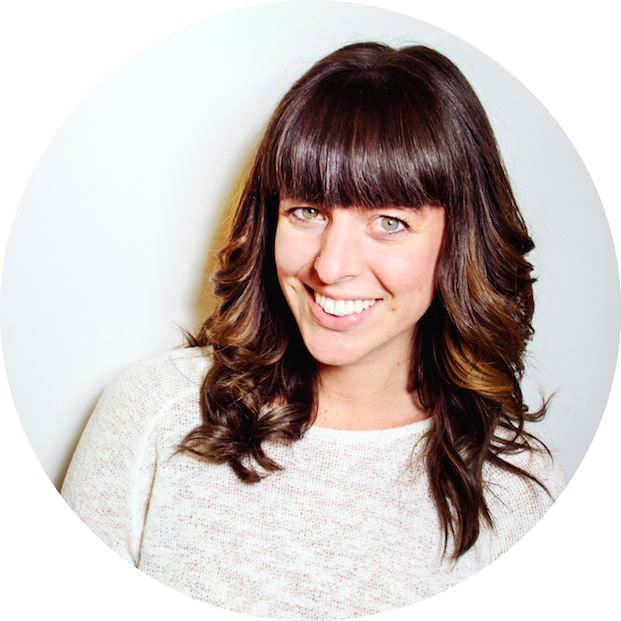
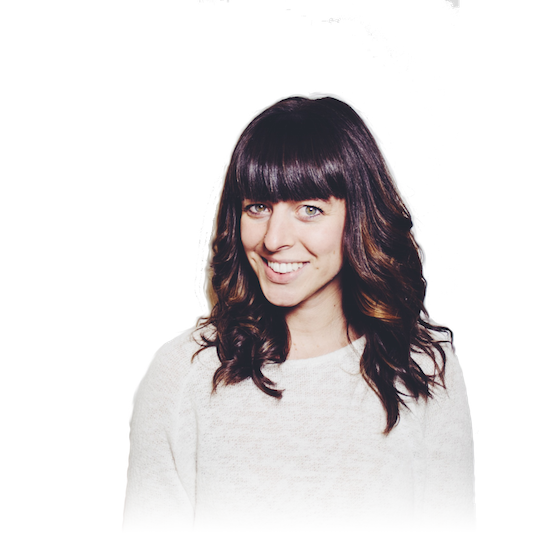
adding new profile photo and styling

diff --git a/css/style.css b/css/style.css
@@ -211,7 +211,7 @@ ul.mainmenu li a {
 /*styling for about emma section*/
 
 .about {
-	padding: 5%;
+	padding: 2%;
 	text-align: center;
 	margin: 0 auto;
 /*	background: linear-gradient(160deg,#65A4D1 10%,rgba(211, 156, 87, 0.73) 80%);
@@ -252,6 +252,7 @@ ul.mainmenu li a {
 	float: left;
 	margin-top: 10px;
 	text-align: center;
+	padding-bottom: 3%;
 
 }
 
@@ -290,17 +291,14 @@ a.social-icon {
 	}	
 
 .headshot {
-	width: 30%;
+	width: 50%;
 	float: left;
 }	
 
 .headshot img {
-	max-width: 90%;
-	width: 100%;
+	max-width: 100%;
 	z-index: 1000;
 	visibility: hidden;
-	padding-right: 15px;
-	margin-top: 2em;
 }	
 
 .bio {
@@ -308,7 +306,7 @@ a.social-icon {
 }
 
 .bio-social {
-	width: 63%;
+	width: 75%;
 	margin-left:31%;
 }
 

diff --git a/index.html b/index.html
@@ -242,7 +242,7 @@
 
 <div class="footer clearfix">
 	<div class="footer-copyright">
-		<h5>Copyright © 2014 | designed with ♥ by Emma Nemtin</h5>
+		<h5>Copyright © 2015 | designed with ♥ by Emma Nemtin</h5>
 	</div>
 
 	<div class="footer-menu">
